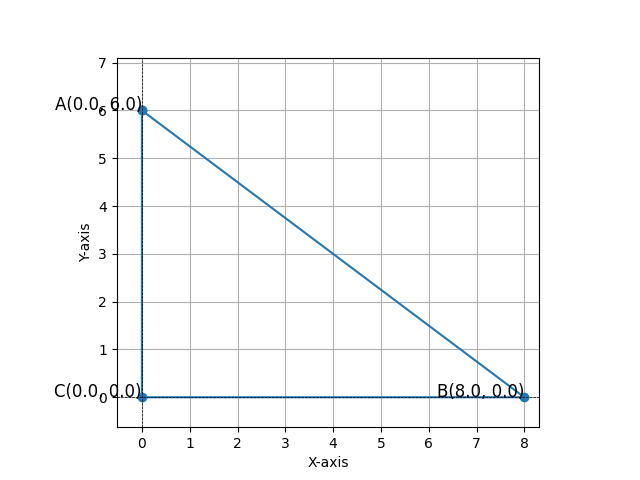
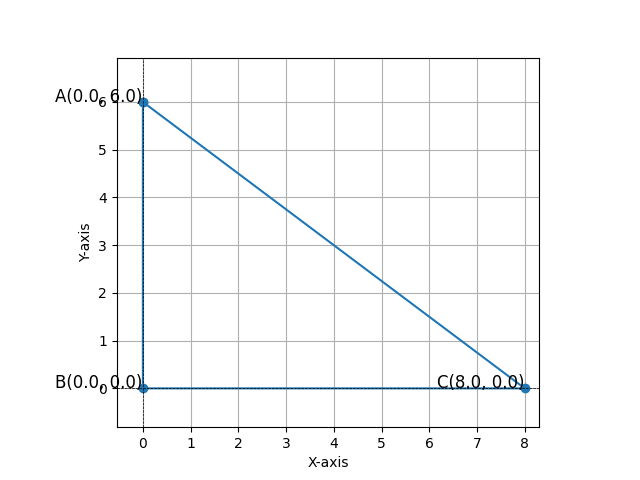
Add files via upload

diff --git a/q2/codes/dat.c b/q2/codes/dat.c
@@ -12,8 +12,8 @@ int main()
         return -1;
     }
     x[0]=0; y[0]=6;
-    x[1]=8; y[1]=0;
-    x[2]=0; y[2]=0;
+    x[1]=0; y[1]=0;
+    x[2]=8; y[2]=0;
 	    fprintf(fp, "%.2f;%.2f;A[%.2f,%.2f]\n",x[0],y[0],x[0],y[0]);
 	    fprintf(fp, "%.2f;%.2f;B[%.2f,%.2f]\n",x[1],y[1],x[1],y[1]);
 	    fprintf(fp, "%.2f;%.2f;C[%.2f,%.2f]\n",x[2],y[2],x[2],y[2]);

diff --git a/q2/tables/tables.tex b/q2/tables/tables.tex
@@ -4,8 +4,8 @@
         \hline
         $A$ & \myvec{0\\6}\\
         \hline
-        $B$ & \myvec{8\\0}\\
+        $B$ & \myvec{0\\0}\\
         \hline
-        $C$ & \myvec{0\\0}\\
+        $C$ & \myvec{8\\0}\\
         \hline
 \end{tabular}
